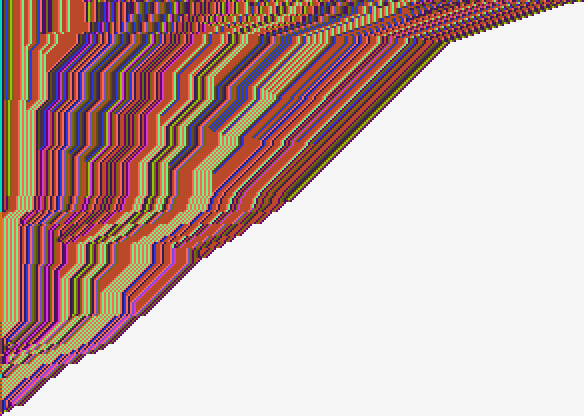
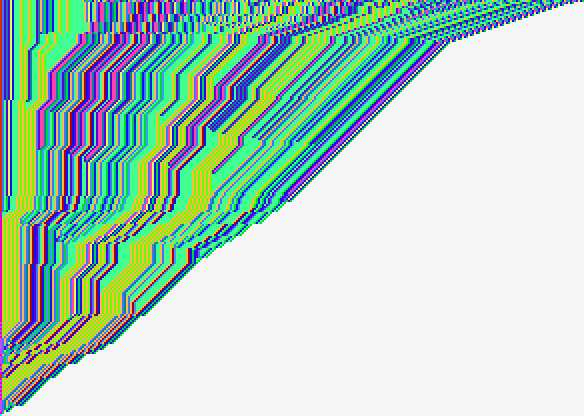
Minor

diff --git a/2015/advent_of_code_2015.py b/2015/advent_of_code_2015.py
@@ -1798,23 +1798,16 @@ def day19e_part2(s, visualize=False):
         else:
           break
 
-  @functools.cache
-  def random_color(ch: str) -> tuple[int, int, int]:
-    random.seed(ch)
-    while True:
-      color = tuple(random.randrange(256) for _ in range(3))
-      if 50 <= sum(color) <= 550:
-        return color  # type: ignore
-
   replacements0, string0, _ = day19_get_input(s)
   seed, sequence = next(produce_sequence())
 
   if len(replacements0) > 10:
     if visualize:
       image = np.full((len(sequence), len(string0), 3), 245, np.uint8)
+      colors = hh.generate_random_colors(256)
       for row, string in enumerate(sequence):
         for col, ch in enumerate(string):
-          image[row, col] = random_color(ch)
+          image[row, col] = colors[ord(ch)]
       image = image.repeat(2, axis=0).repeat(2, axis=1)
       media.show_image(image, title='day19')
     else:
